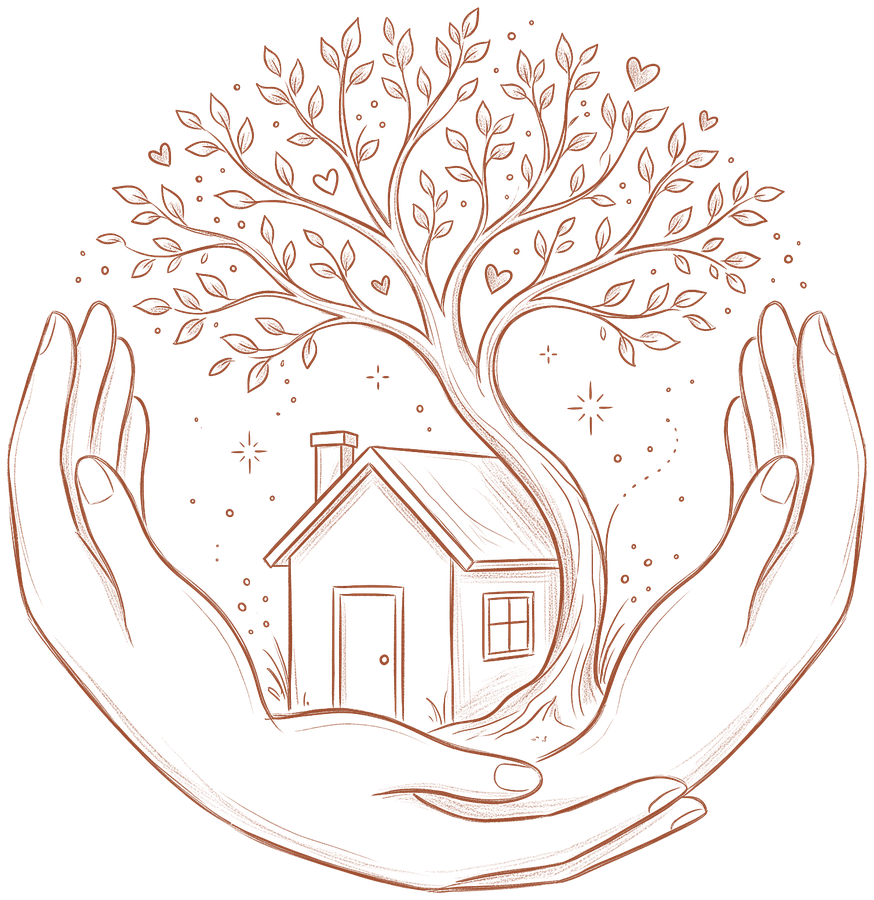
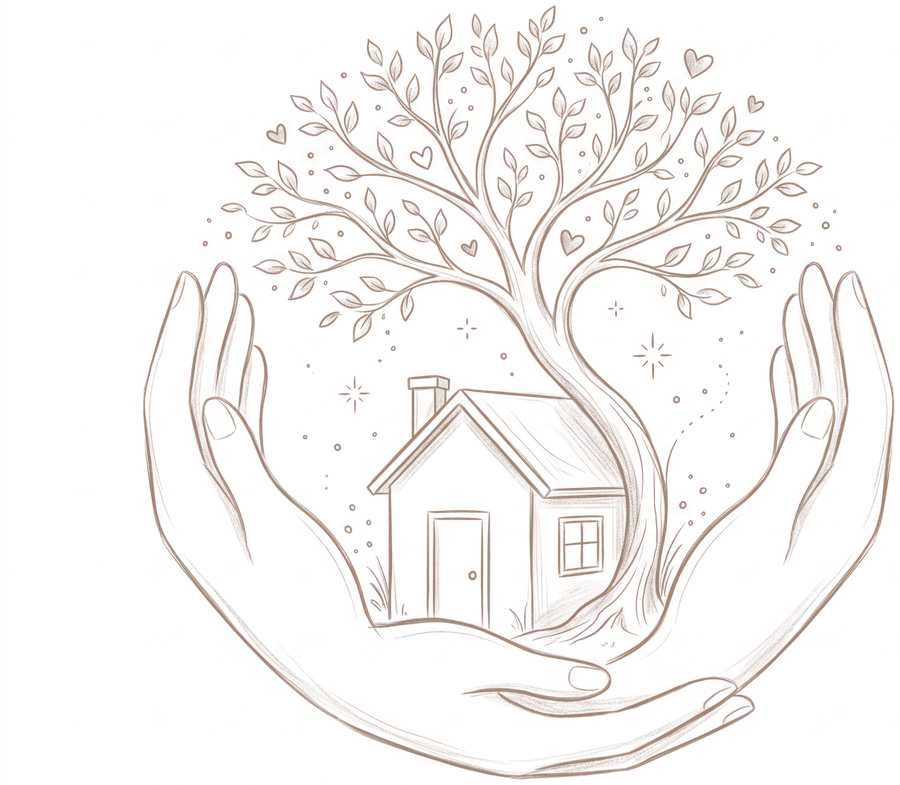
Keep the drawings in the brown they were drawn in
Every illustration had been repainted in --color-accent-ink. That
threw away the colour Ilan chose, and because the repaint took its
opacity from how dark each pixel was, the palest sheets landed near
40% and read as grey rather than as terracotta - which is what he
saw on the page.

Keeping the colour is not a matter of copying the pixels across. A
pencil stroke is ink mixed with white, so a mid-tone pixel is not
"light brown", it is the sheet's brown at partial coverage: copy it
as-is with partial alpha onto the cream and it gets mixed with white
a second time. The first attempt at preserving the colour came out
paler than the repaint it replaced.

prep-drawings.py un-mixes each sheet instead. It measures the ink
from the two thousand darkest pixels - a percentage is the wrong
measure, these sheets are almost all paper - and solves every pixel
back to how much of that ink it holds, C = a·K + (1-a)·255. The
result is the sheet's own ink at full strength with an alpha that
carries the shading, so a drawing looks on cream exactly as it
looked on paper.

One script now, replacing prep-walk.py and prep-day-icons.py, and
every <Image> re-pointed at its file's real dimensions.

The light variants stay repainted: they sit on the dark footer and
the slate band, where brown would disappear.

diff --git a/components/sections/Faq.tsx b/components/sections/Faq.tsx
@@ -40,19 +40,19 @@ export function Faq({
             src="/images/art-kid-blocks.png"
             alt=""
             width={900}
-            height={783}
+            height={791}
             sizes="140px"
             aria-hidden="true"
-            className="pointer-events-none absolute top-0 right-[calc(100%+2.5rem)] hidden h-24 w-auto opacity-80 xl:block"
+            className="pointer-events-none absolute top-0 right-[calc(100%+2.5rem)] hidden h-24 w-auto xl:block"
           />
           <Image
             src="/images/art-kid-ball.png"
             alt=""
-            width={704}
+            width={710}
             height={900}
             sizes="140px"
             aria-hidden="true"
-            className={`pointer-events-none absolute bottom-0 left-[calc(100%+2.5rem)] h-28 w-auto opacity-80 ${art === "pair" ? "hidden xl:block" : "hidden"}`}
+            className={`pointer-events-none absolute bottom-0 left-[calc(100%+2.5rem)] h-28 w-auto ${art === "pair" ? "hidden xl:block" : "hidden"}`}
           />
 
           <div className="space-y-3">
@@ -82,13 +82,13 @@ export function Faq({
               sit under it instead - same sizes as the strip further up. */}
           <div
             aria-hidden="true"
-            className="mt-12 flex items-end justify-center gap-8 opacity-80 xl:hidden"
+            className="mt-12 flex items-end justify-center gap-8 xl:hidden"
           >
             <Image
               src="/images/art-kid-blocks.png"
               alt=""
               width={900}
-              height={783}
+              height={791}
               sizes="120px"
               className="h-14 w-auto"
             />
@@ -96,7 +96,7 @@ export function Faq({
               <Image
                 src="/images/art-kid-ball.png"
                 alt=""
-                width={704}
+                width={710}
                 height={900}
                 sizes="100px"
                 className="h-16 w-auto"

diff --git a/components/sections/Recognise.tsx b/components/sections/Recognise.tsx
@@ -13,10 +13,10 @@ import type { RecogniseItem, RecogniseSection } from "@/content/types";
  * schema caps the list at the four these were drawn for.
  */
 const MARKS = [
-  { src: "/images/day-morning.png", width: 320, height: 269 },
-  { src: "/images/day-translate.png", width: 320, height: 248 },
-  { src: "/images/day-help.png", width: 308, height: 320 },
-  { src: "/images/day-collapse.png", width: 301, height: 320 },
+  { src: "/images/day-morning.png", width: 643, height: 523 },
+  { src: "/images/day-translate.png", width: 534, height: 397 },
+  { src: "/images/day-help.png", width: 513, height: 511 },
+  { src: "/images/day-collapse.png", width: 459, height: 464 },
 ];
 
 function Moment({
@@ -145,7 +145,7 @@ export function Recognise({ data }: { data: RecogniseSection }) {
           <Image
             src="/images/art-mother-walk.png"
             alt=""
-            width={767}
+            width={768}
             height={900}
             sizes="180px"
             aria-hidden="true"

diff --git a/components/sections/Services.tsx b/components/sections/Services.tsx
@@ -93,7 +93,7 @@ function ServiceCard({ service }: { service: Service }) {
           src="/images/art-path-home.png"
           alt=""
           width={762}
-          height={834}
+          height={835}
           sizes="260px"
           aria-hidden="true"
           className="pointer-events-none order-last mt-4 h-28 w-auto self-end opacity-80 transition-[opacity,transform] duration-500 ease-[var(--ease-soft)] group-has-[details[open]]:translate-y-6 group-has-[details[open]]:opacity-0 lg:absolute lg:-bottom-14 lg:-end-4 lg:order-none lg:mt-0 lg:h-44"

diff --git a/components/layout/Footer.tsx b/components/layout/Footer.tsx
@@ -33,7 +33,7 @@ export function Footer({ settings }: { settings: SiteSettings }) {
             <Image
               src="/images/art-kid-ball-light.png"
               alt=""
-              width={704}
+              width={710}
               height={900}
               sizes="160px"
               className="mx-auto mt-8 h-24 w-auto opacity-75 md:h-28 lg:mx-0"

diff --git a/components/sections/Approach.tsx b/components/sections/Approach.tsx
@@ -117,8 +117,8 @@ export function Approach({
             <Image
               src="/images/art-hands-home.png"
               alt=""
-              width={874}
-              height={900}
+              width={900}
+              height={785}
               sizes="300px"
               aria-hidden="true"
               className="h-28 w-auto select-none md:h-40"

diff --git a/components/sections/NotHere.tsx b/components/sections/NotHere.tsx
@@ -123,7 +123,7 @@ export function NotHere({
               src={`/images/art-kid-blocks${t.onDark ? "-light" : ""}.png`}
               alt=""
               width={900}
-              height={783}
+              height={791}
               sizes="180px"
               aria-hidden="true"
               className="h-20 w-auto opacity-75 md:h-24"

diff --git a/components/sections/Articles.tsx b/components/sections/Articles.tsx
@@ -54,7 +54,7 @@ export function Articles({
                 src="/images/art-child-sprawl.png"
                 alt=""
                 width={787}
-                height={541}
+                height={542}
                 sizes="140px"
                 aria-hidden="true"
                 className="hidden h-28 w-auto shrink-0 sm:block"

diff --git a/scripts/prep-drawings.py b/scripts/prep-drawings.py
@@ -1,0 +1,98 @@
+"""
+Cuts every hand-drawn illustration out of the sheets it arrived on.
+
+  python scripts/prep-drawings.py
+
+The drawings come as brown pencil on white paper, and the brown is theirs -
+an earlier pass repainted every stroke in --color-accent-ink, which threw away
+the colour Ilan had chosen.
+
+Keeping it is not simply a matter of copying the pixels across. A pencil stroke
+on paper is ink mixed with white, so a mid-tone pixel is not "light brown", it
+is the sheet's brown at partial coverage. Copy it as-is with partial alpha onto
+the cream and it gets mixed with white twice, which is what turned the first
+attempt to preserve the colour into something even paler than the repaint.
+
+So each sheet is un-mixed instead. The ink colour is measured from its darkest
+half percent of pixels, and every pixel is solved back to how much of that ink
+it holds:
+
+    C = a·K + (1-a)·255   ->   a = (255 - C) / (255 - K)
+
+The result is the sheet's own ink at full strength with an alpha that carries
+the shading, so the drawing looks on cream exactly as it looked on paper, and
+would look right on any other ground too.
+
+Sheets that hold several drawings are split at the valleys in their ink density
+rather than at empty columns - on some of them the drawings touch.
+
+`light` variants are the one place a repaint is still right: they sit on the
+dark footer and on the slate band, where brown would disappear, so there the
+drawing becomes a cream silhouette of itself.
+"""
+
+import numpy as np
+from PIL import Image
+
+SRC = "public/images"
+
+# name -> (sheet, x range or None for the whole sheet, also emit a light copy)
+CUTS = [
+    ("art-mother-walk", "walk-source.jpg", None, False),
+    ("art-hands-home", "hands-home-source.jpg", None, False),
+    ("art-family-hold", "family-hold-source.jpg", None, False),
+    ("day-morning", "day-icons-source.jpg", (0, 1000), False),
+    ("day-translate", "day-icons-source.jpg", (1000, 1800), False),
+    ("day-help", "day-icons-source.jpg", (1800, 2650), False),
+    ("day-collapse", "day-icons-source.jpg", (2650, None), False),
+    ("art-path-home", "paths-source.jpg", (1898, None), False),
+    ("art-child-sprawl", "reading-source.jpg", (1833, None), False),
+    ("art-kid-blocks", "play-source.jpg", (120, 1058), True),
+    ("art-kid-ball", "play-source.jpg", (1780, None), True),
+]
+
+
+def cut(name, sheet_file, span, light):
+    sheet = Image.open(f"{SRC}/{sheet_file}").convert("RGB")
+    rgb = np.asarray(sheet).astype(np.float32)
+
+    # The ink: the mean of the two thousand darkest pixels. A percentage of the
+    # sheet is the wrong measure - these sheets are almost entirely paper, so
+    # even half a percent of them reaches well up into the mid-tones and
+    # returns an ink far lighter than any stroke actually is.
+    lightness = rgb.max(axis=2)
+    ink = rgb.reshape(-1, 3)[np.argsort(lightness, axis=None)[:2000]].mean(axis=0)
+
+    # How much of that ink each pixel holds. Taken per channel and kept at the
+    # strongest, so a stroke reads at its full weight rather than at the
+    # average of three channels that disagree.
+    coverage = np.clip((255.0 - rgb) / np.maximum(255.0 - ink, 1.0), 0, 1).max(axis=2)
+
+    x0, x1 = span or (0, None)
+    band = coverage[:, x0:x1]
+    ys = np.where((band > 0.06).any(axis=1))[0]
+    xs = np.where((band > 0.06).any(axis=0))[0]
+    pad = 10
+    top, bottom = max(0, ys.min() - pad), ys.max() + 1 + pad
+    left, right = max(0, xs.min() - pad), xs.max() + 1 + pad
+    alpha = band[top:bottom, left:right]
+
+    out = np.empty((*alpha.shape, 4), dtype=np.uint8)
+    out[..., 0], out[..., 1], out[..., 2] = ink.round().astype(np.uint8)
+    out[..., 3] = (alpha * 255).round().astype(np.uint8)
+    image = Image.fromarray(out, "RGBA")
+    image.thumbnail((900, 900), Image.LANCZOS)
+    image.save(f"{SRC}/{name}.png")
+    print(f"  {name}.png {image.size}  ink #{'%02x%02x%02x' % tuple(ink.round().astype(int))}")
+
+    if light:
+        pale = out.copy()
+        pale[..., 0] = pale[..., 1] = pale[..., 2] = 0xF2
+        lo = Image.fromarray(pale, "RGBA")
+        lo.thumbnail((900, 900), Image.LANCZOS)
+        lo.save(f"{SRC}/{name}-light.png")
+        print(f"  {name}-light.png {lo.size}")
+
+
+for entry in CUTS:
+    cut(*entry)
